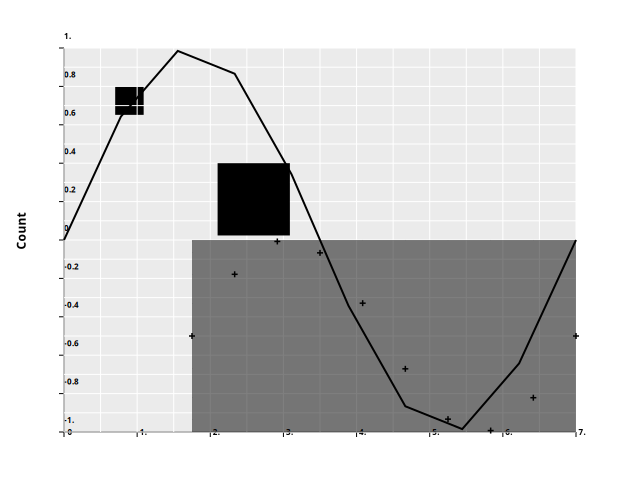
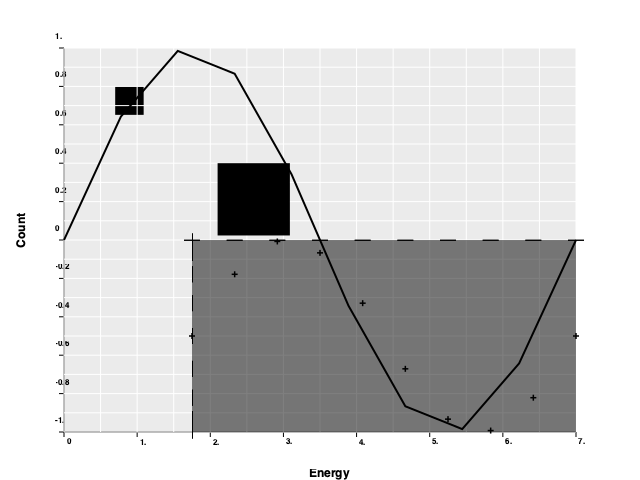
Fixes for geom_line

diff --git a/src/python_ggplot/gg/drawing.py b/src/python_ggplot/gg/drawing.py
@@ -676,8 +676,8 @@ def extend_line_to_axis(
     """
     TODO medium/low priority clean up this logic, after geom re structrure is done
     """
-    l_start: Coord = line_points[0]
-    l_end: Coord = line_points[-1]
+    l_start: Coord = deepcopy(line_points[0])
+    l_end: Coord = deepcopy(line_points[-1])
 
     geom_type: GeomType = filled_geom.geom_type
     discrete_type_x: DiscreteType = filled_geom.discrete_type_x
@@ -888,8 +888,12 @@ def draw_sub_df(
             style = merge_user_style(styles[0], fg)
             if style.fill_color is None:
                 raise GGException("expected fill color")
-            if style.fill_color.a == 0.0 or geom_type == GeomType.FREQ_POLY:
-                line_points = extend_line_to_axis(line_points, AxisKind.X, df, fg)
+
+            # TODO CRITICAL+ easy fix
+            # this logic is correct but is triggered at the wrong conditions
+            # Should not be triggered for geom_line (as draws a line from axis to point)
+            # if style.fill_color.a == 0.0 or geom_type == GeomType.FREQ_POLY:
+                # line_points = extend_line_to_axis(line_points, AxisKind.X, df, fg)
             poly_line = init_poly_line_from_points(
                 view, [i.point() for i in line_points], style
             )

diff --git a/tests/test_view.py b/tests/test_view.py
@@ -354,4 +354,3 @@ def test_geom_line():
     plot = ggplot(df, aes(x="dose", y="bbb")) + geom_line() + geom_point() 
     res = ggcreate(plot)
     ggdraw_plot(res, data_path / "geom_line_and_point.png")
-

diff --git a/README.md b/README.md
@@ -10,6 +10,16 @@
 
 plots are still in progress, but some examples:
 ```
+    df = pd.DataFrame(
+        data={"dose": ["D0.5", "D1", "D2"], "bbb": [4.2, 10, 29.5]}
+    )
+    plot = ggplot(df, aes(x="dose", y="bbb")) + geom_line() + geom_point() 
+    res = ggcreate(plot)
+    ggdraw_plot(res, data_path / "geom_line_and_point.png")
+```
+![gg_line_and_point](data/geom_line_and_point.png)
+
+```
     mpg = pd.read_csv(data_path / "mpg.csv")  # type: ignore
     plot = ggplot(mpg, aes("class")) + geom_bar()
     res = ggcreate(plot)
